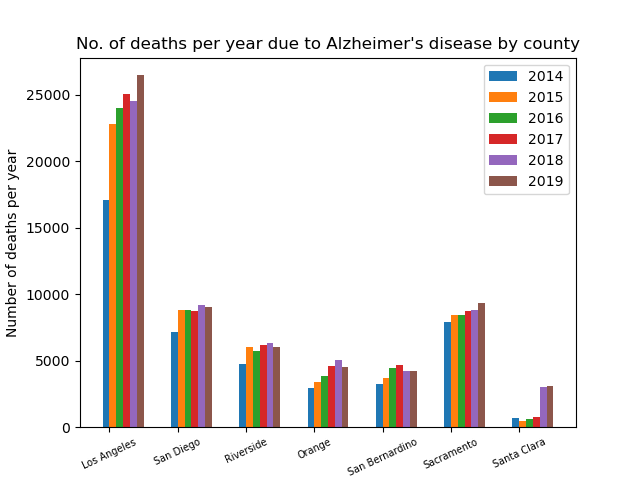
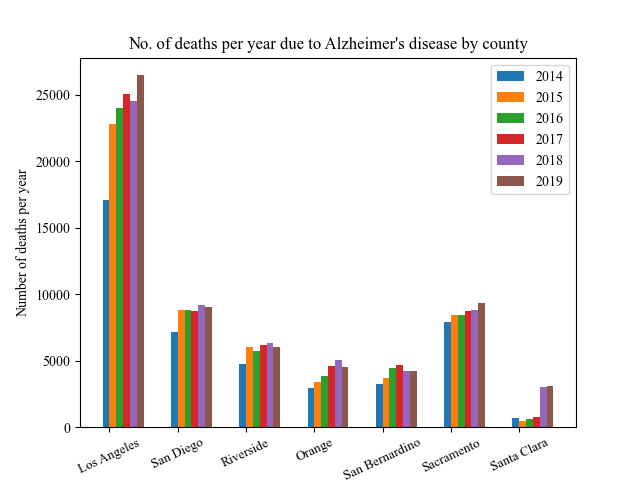
Update the final plots

diff --git a/src/get_county_stats.py b/src/get_county_stats.py
@@ -6,6 +6,7 @@ import pandas as pd
 from collections import defaultdict
 import numpy as np
 import matplotlib.pyplot as plt
+plt.rcParams["font.family"] = "Times New Roman"
 
 BASE_DIR = os.path.dirname(os.path.dirname( __file__ ))
 DATA_DIR = f'{BASE_DIR}/data'
@@ -25,6 +26,7 @@ year_county_deaths = grouped_data.pivot_table(values='Total Count', index=[COUNT
 year_county_deaths.sort_values(by=[YEAR_COL, COUNTY_COL], inplace = True)
 year_county_deaths.reset_index(inplace=True)
 year_county_deaths.to_csv(f'{DATA_DIR}/grouped_deaths_by_counties.csv')
+
 
 def disease_county_dist_yearly_analysis(year_county_deaths, year=2019):
 
@@ -70,12 +72,11 @@ def get_county_deaths_by_disease():
         plt.xlabel("Counties")
         plt.ylabel("Number of deaths per year")
         plt.title(f"No. of deaths per year due to {disease} by county")
-        plt.xticks(r + width/2,county_names,rotation=25,fontsize=7)
+        plt.xticks(r + width/2,county_names,rotation=25,fontsize=9)
         plt.legend()
     
         plt.savefig(f'{VISUALIZATION_DIR}/county/{disease}.png')
         print(f"Done with {disease} plot..")
-        break
                 
 def car_accidents_percentage_increase():
     '''
@@ -112,8 +113,8 @@ def car_accidents_percentage_increase():
     plt.ylabel("Percentage increase in deaths due to accidents")
     plt.title(" % Increase in deaths due to accidents from 2018 to 2019")
     
-    plt.show()
-    # plt.savefig(f'{VISUALIZATION_DIR}/accident/accident_analysis.png')
+    # plt.show()
+    plt.savefig(f'{VISUALIZATION_DIR}/accident/accident_analysis.png')
     
 def get_homicide_rates_county():
     homicide_column = 'Assault (homicide)'
@@ -158,9 +159,4 @@ def get_influenza_rates_county():
     plt.xticks(r,county_names,rotation=25,fontsize=7)
     plt.legend()
     plt.savefig(f'{VISUALIZATION_DIR}/accident/influenza.png')
-        
-# get_homicide_rates_county()
-# get_influenza_rates_county()
-# car_accidents_percentage_increase()  
-# disease_county_dist_yearly_analysis(year_county_deaths, 2014)
-# multiple_bar_charts_per_disease(year_county_deaths)
+
